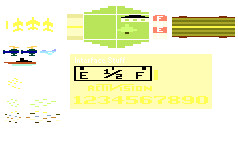
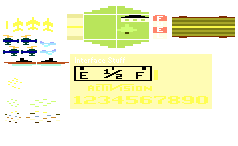
ajuste spritesheet transparente

Changed region(s): [[0.0, 0.2192, 0.2353, 0.3288], [0.1471, 0.3836, 0.2941, 0.4658]]

diff --git a/public/javascripts/script.js b/public/javascripts/script.js
@@ -106,8 +106,18 @@ function ponte(){
 }
 function navio(x){
     //<---3  --->36 soma a largura no srcX para virar de lado...
-    sprites.push(new Sprite('images/Atari - River Raid Atari 2600 - River Raid.png', 'navio', 3, 57, 33, 9, x, -14));
-    sprites[encontrar('navio')].speed = .1;
+    sprites.push(new Sprite('images/Atari - River Raid Atari 2600 - River Raid-transparente.png', 'navio', 3, 57, 33, 9, x, -14));
+    //console.log('add navio');
+}
+function aviao(direcao){
+    if(direcao == 'd'){
+        sprites.push(new Sprite('images/Atari - River Raid Atari 2600 - River Raid.png', 'aviao', 39, 42, 14, 7, 0, -14));
+        sprites[encontrar('aviao')].movRight = true;
+    }else{
+        sprites.push(new Sprite('images/Atari - River Raid Atari 2600 - River Raid.png', 'aviao', 39, 49, 14, 7, cnv.width, -14));
+        sprites[encontrar('aviao')].movLeft = true;
+    }
+    sprites[encontrar('aviao')].speed = 1;
     //console.log('add navio');
 }
 
@@ -158,14 +168,14 @@ function loop(){
 		sprites[i].desenha();/////////////// renderiza na tela...
 
         /*verificar se existe algo acima da tela de jogo para saber quando renderizar nova linha*/
-        if (sprites[i].posY < 0) {
+        if (sprites[i].posY < 0 && sprites[i].flag == 'gramado') {
             imprimir = false;
         }
 	}
     //for secundario para remover obj depois de renderizar todos os elementos na tela
     for (let k = 0 ; k < sprites.length; k++) {//percorre array de sprites
         //eliminar do array
-        if (sprites[k].posY > cnv.height+23 || sprites[k].posY < -23 || sprites[k].flag == 'remover') {
+        if (sprites[k].posY > cnv.height+3 || sprites[k].posY < -23 || sprites[k].posX > cnv.width+33 || sprites[k].posX < -33 || sprites[k].flag == 'remover') {
             sprites.splice(k, 1);
         }
     }

diff --git a/public/javascripts/sprite.js b/public/javascripts/sprite.js
@@ -129,6 +129,16 @@ function Sprite(imgSrc, flag, srcX, srcY, lar, alt, posX, posY){
 									this.posX += 1;
 									this.flag = 'explosao';							
 								break;
+							case 'aviao':
+									this.srcX = 7;
+									this.srcY = 110;
+									this.lar = 12;
+									this.alt = 8;
+									this.posX += 1;
+									this.movRight = false;
+									this.movLeft = false;
+									this.flag = 'explosao';							
+								break;
 							default:
 								break;
 						}								
@@ -156,13 +166,12 @@ function Sprite(imgSrc, flag, srcX, srcY, lar, alt, posX, posY){
 				gameOver = true;
 			}
 		}
-		if (this.flag != 'gramado') {
-			//varrer array procurando colisões com gramado
+		if (this.flag != 'gramado') {//varrer array procurando colisões com gramado
 			for (let j = 0; j < sprites.length; j++) {
 				if (sprites[j].flag == 'gramado') {
 					if (colide(this, sprites[j])) {
 						//colidiu com gramado
-						if (this.flag == 'navio' || this.flag == 'helicoptero' || this.flag == 'aviao') {
+						if (this.flag == 'navio' || this.flag == 'helicoptero') {
 							if (this.movRight) {
 								this.movRight = false;
 								this.movLeft = true;
